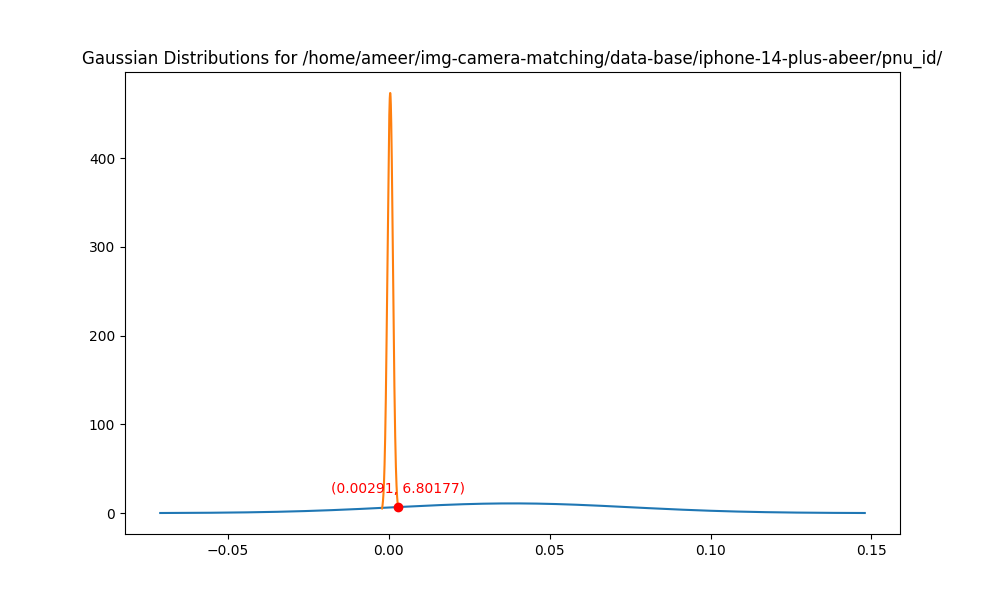
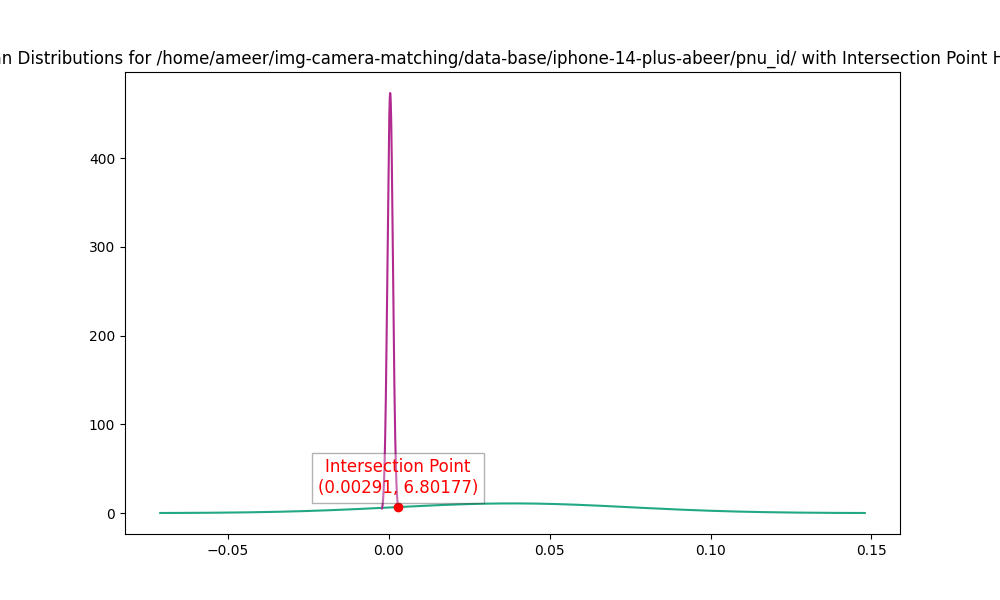
plotting upto date

Changed region(s): [[0.186, 0.15, 0.527, 0.87], [0.0, 0.09, 1.0, 0.12], [0.589, 0.84, 0.868, 0.87]]

diff --git a/main.py b/main.py
@@ -28,5 +28,5 @@ if __name__ == '__main__':
         g = LoadGaussianPair(**allgaussianPairs.get_gaussian(x))
         path = GAUSSIANPLOTSTHEORY + '_'.join(g.axis_1.split('/')[-1:])+'$'+'_'.join(g.axis_2.split('/')[-1:])
         g.find_gaussian_intersections()
-        g.visualize(None)
+        g.visualize(path)
     
